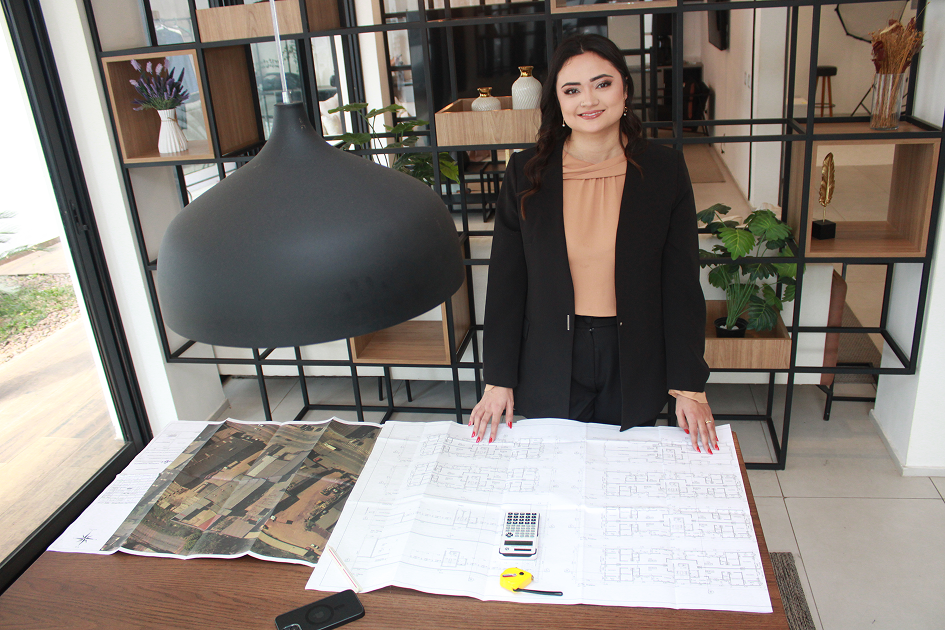
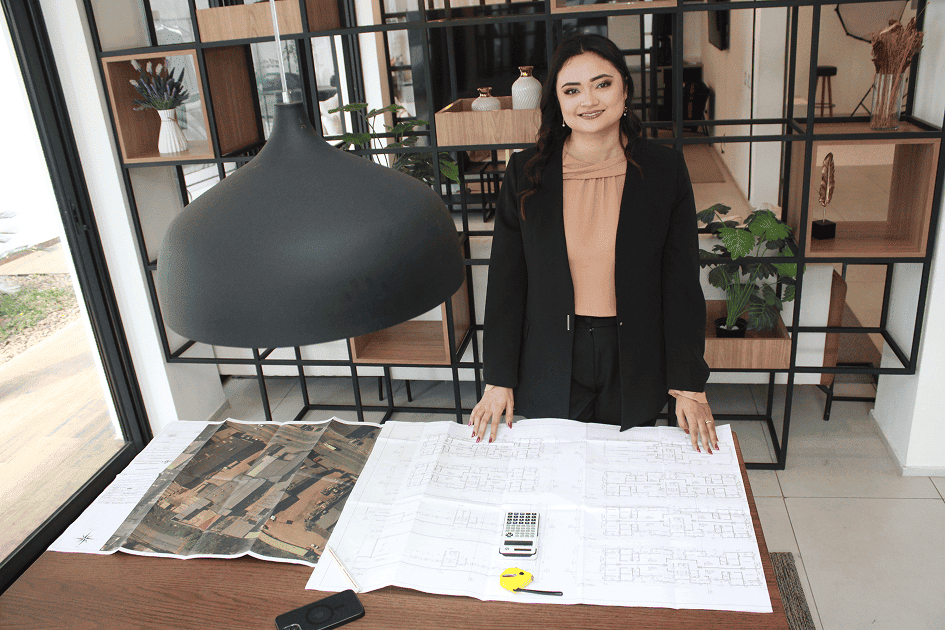
fix: og-images

diff --git a/src/shared/data/contact.ts b/src/shared/data/contact.ts
@@ -112,7 +112,7 @@ export const metadataContact: Metadata = {
 
   // ----- OPEN GRAPH (Facebook, LinkedIn, Instagram, WhatsApp) -----
   openGraph: {
-    title: 'FAle conosco',
+    title: 'Fale conosco',
     description:
       'Estamos prontos para atender você. Telefone, WhatsApp, e-mail e redes sociais. Respondemos rapidamente!',
 
